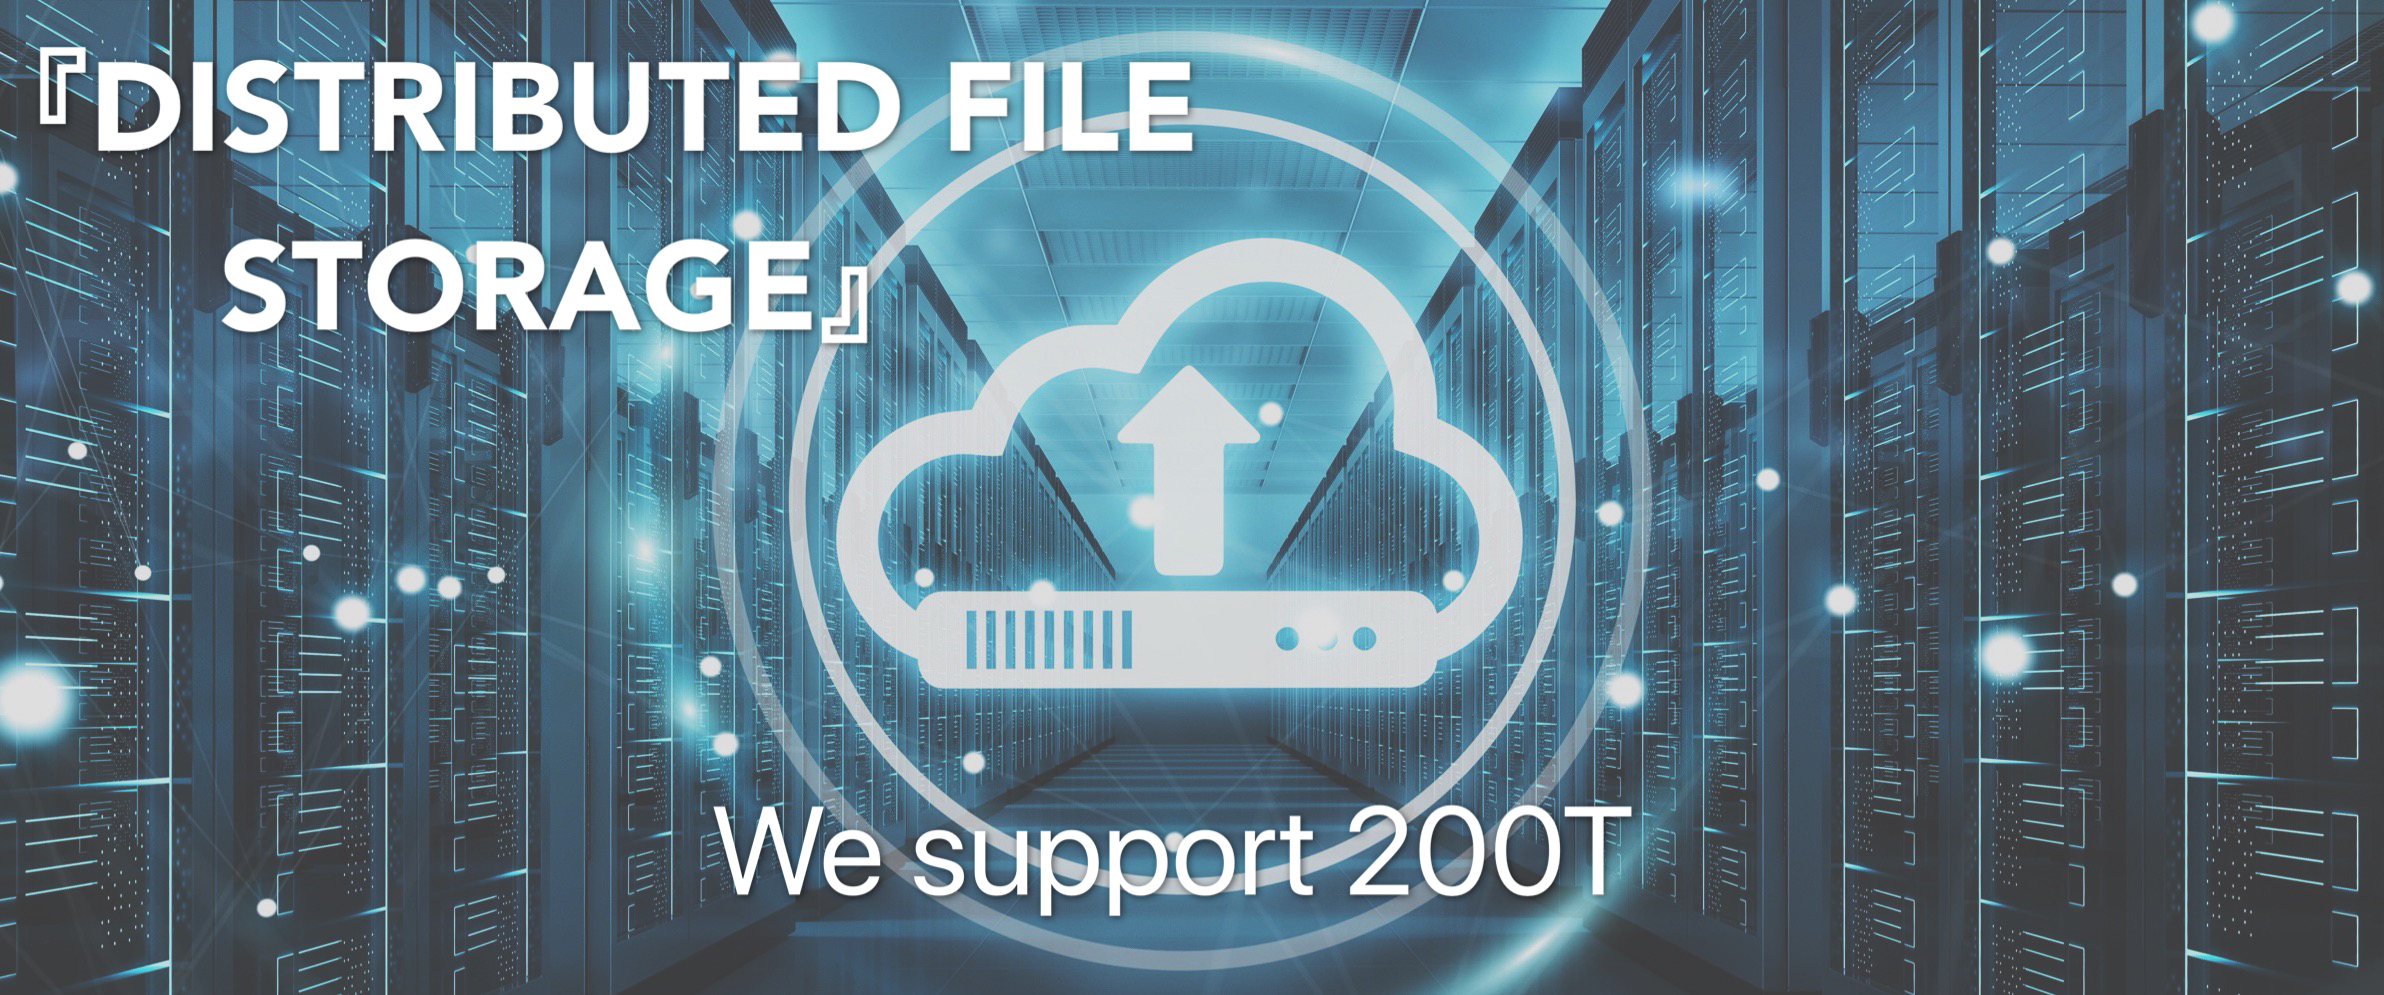
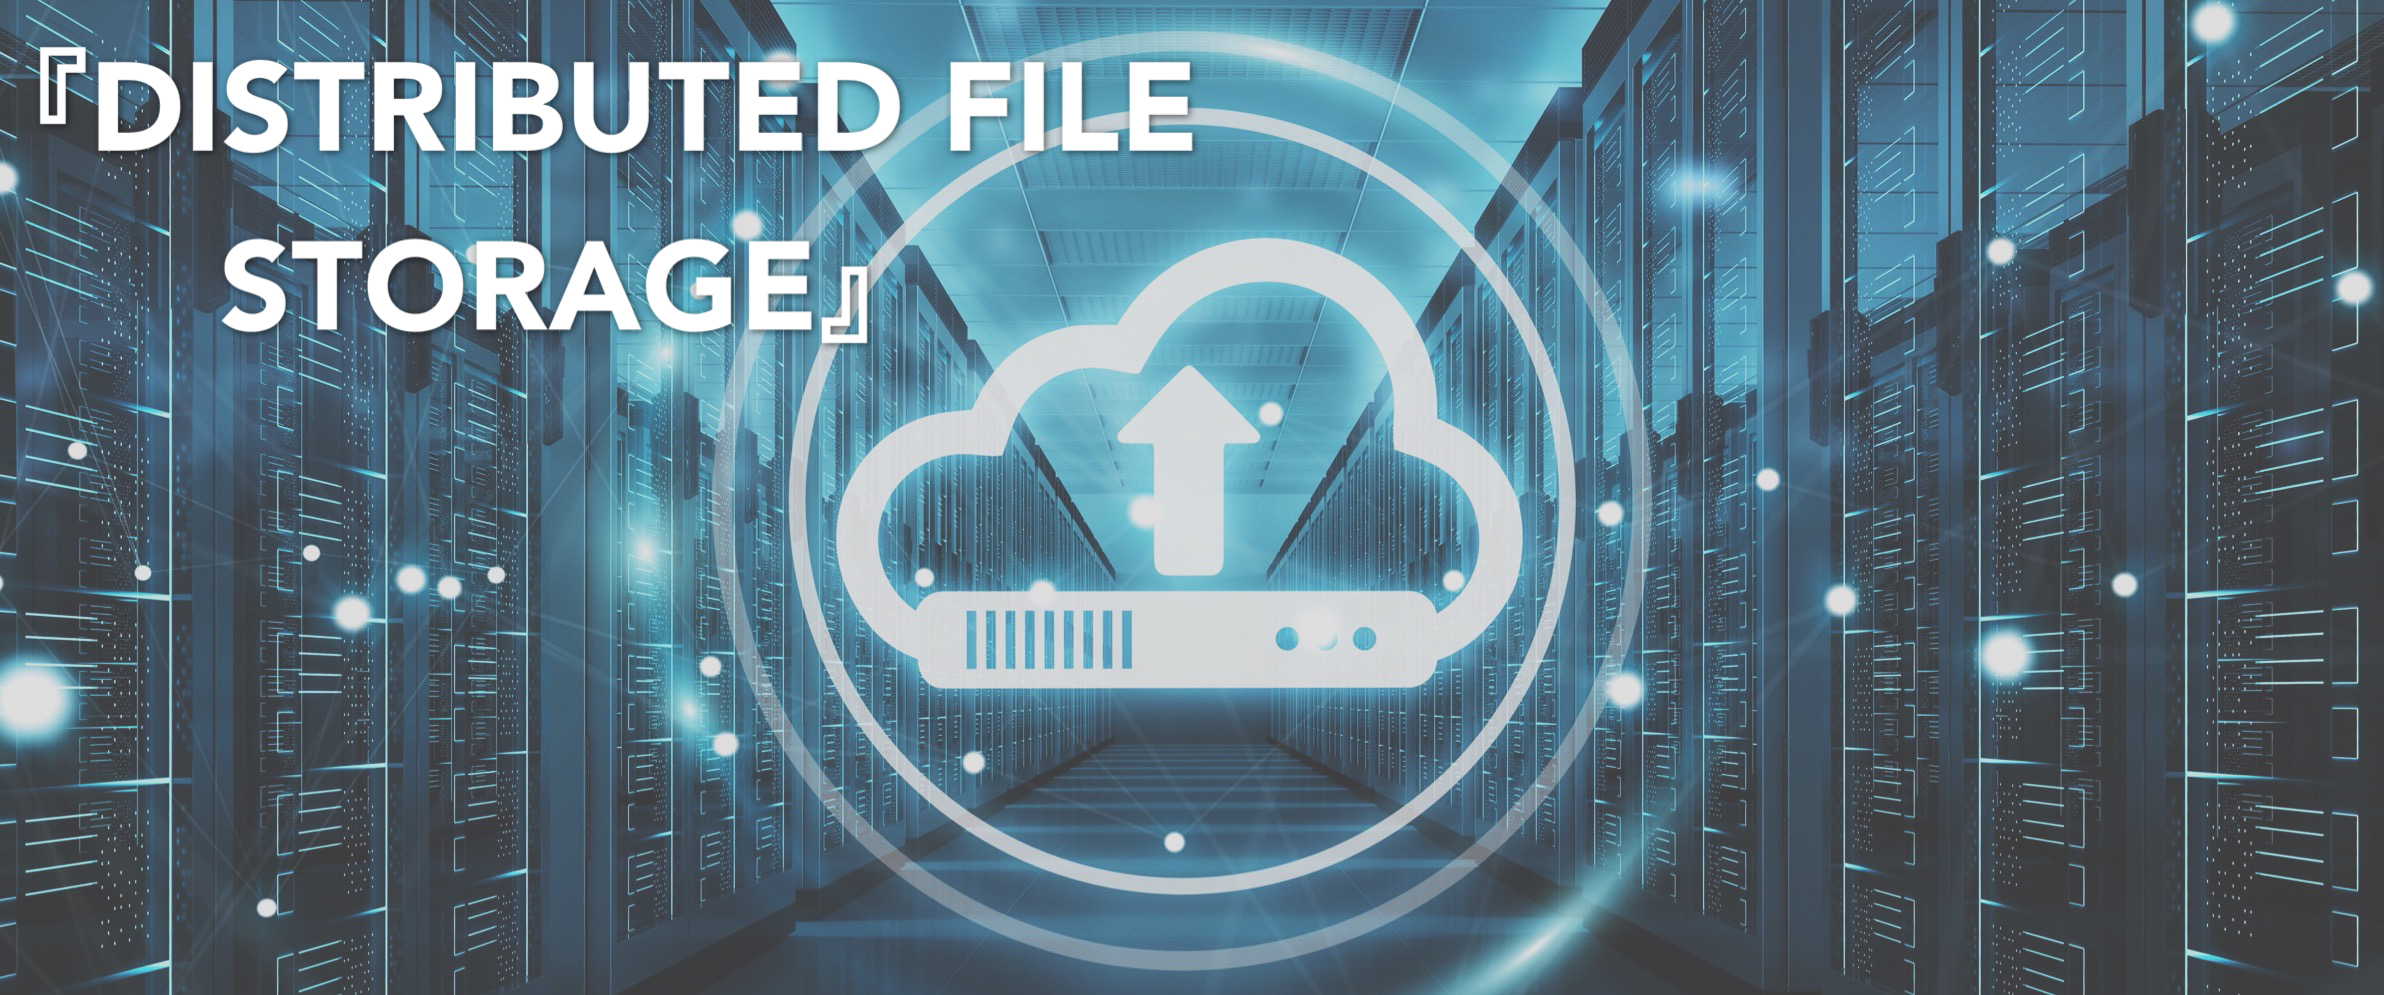
[NEW]: Add Pop-up window for Delete      - Add a window to pop up when deleting files      - Changed pictures in homepage

Changed region(s): [[0.2794, 0.8101, 0.6829, 0.9347]]

diff --git a/src/component/FileUpload/FileList.react.js b/src/component/FileUpload/FileList.react.js
@@ -2,6 +2,7 @@ import React, { useEffect, useState } from 'react';
 import { useDispatch, useSelector } from 'react-redux';
 import { Table, Button, Modal, Row, Col, Tooltip } from 'antd';
 import { getFileList } from '#/redux/file.redux';
+import { DeleteFile } from '#/utils/DeleteFile';
 import { CloudDownloadOutlined, DeleteOutlined } from '@ant-design/icons';
 
 const { Column } = Table;
@@ -10,6 +11,9 @@ export const FileList = () => {
 	// hooks
 	const [deleteModalVsb, setDeleteModalVsb] = useState(false); // set the delete modal visibility
 	const [loading, setLoading] = useState(true);
+	const [deleteFile, setDeleteFile] = useState({
+		visible: false
+	});
 	const dispatch = useDispatch();
 	const fileState = useSelector(s => s.file);
 
@@ -20,6 +24,14 @@ export const FileList = () => {
 		
 	}, [dispatch]);
 	
+	const deletefile = e => {
+		console.log(e);
+		setDeleteFile({
+			reqId: 11234,
+			visible: true,
+		});
+	};
+
 	return (
 		<React.Fragment>
 			{/* table items are in fileState.myFiles */}
@@ -47,12 +59,17 @@ export const FileList = () => {
 					render={(text, record) =>{
 						return (
 							<Tooltip title="Delete">
-								<Button shape="round" icon={<DeleteOutlined />} />
+								<Button shape="round" icon={<DeleteOutlined />} onClick={() => deletefile()}/>
 							</Tooltip>
 						);
 					}}
 				></Column>
 			</Table>
+			<DeleteFile
+				visible={deleteFile.visible}
+				reqId={deleteFile.reqId}
+				changeVsb={vsb => setDeleteFile({ ...deleteFile, visible: vsb })}
+			></DeleteFile>
 		</React.Fragment>
 	);
 };

diff --git a/src/utils/DeleteFile.js b/src/utils/DeleteFile.js
@@ -1,0 +1,28 @@
+import React from 'react';
+import { Modal } from 'antd';
+import { WarningTwoTone } from '@ant-design/icons';
+
+export const DeleteFile = ({ visible, reqId, changeVsb}) => {
+	const onOk = () => {
+		console.log('ok');
+		changeVsb(false);
+	};
+	const onCancel = () => {
+		changeVsb(false);
+	};
+
+	return (
+		<div>
+			{reqId ? (
+				<Modal
+					visible={visible}
+					title='Deleting Files'
+					onOk={onOk}
+					onCancel={onCancel}
+				>
+					<p><WarningTwoTone /> Are you sure you want to delete this file?</p>
+				</Modal>
+			) : null}
+		</div>
+	);
+};
